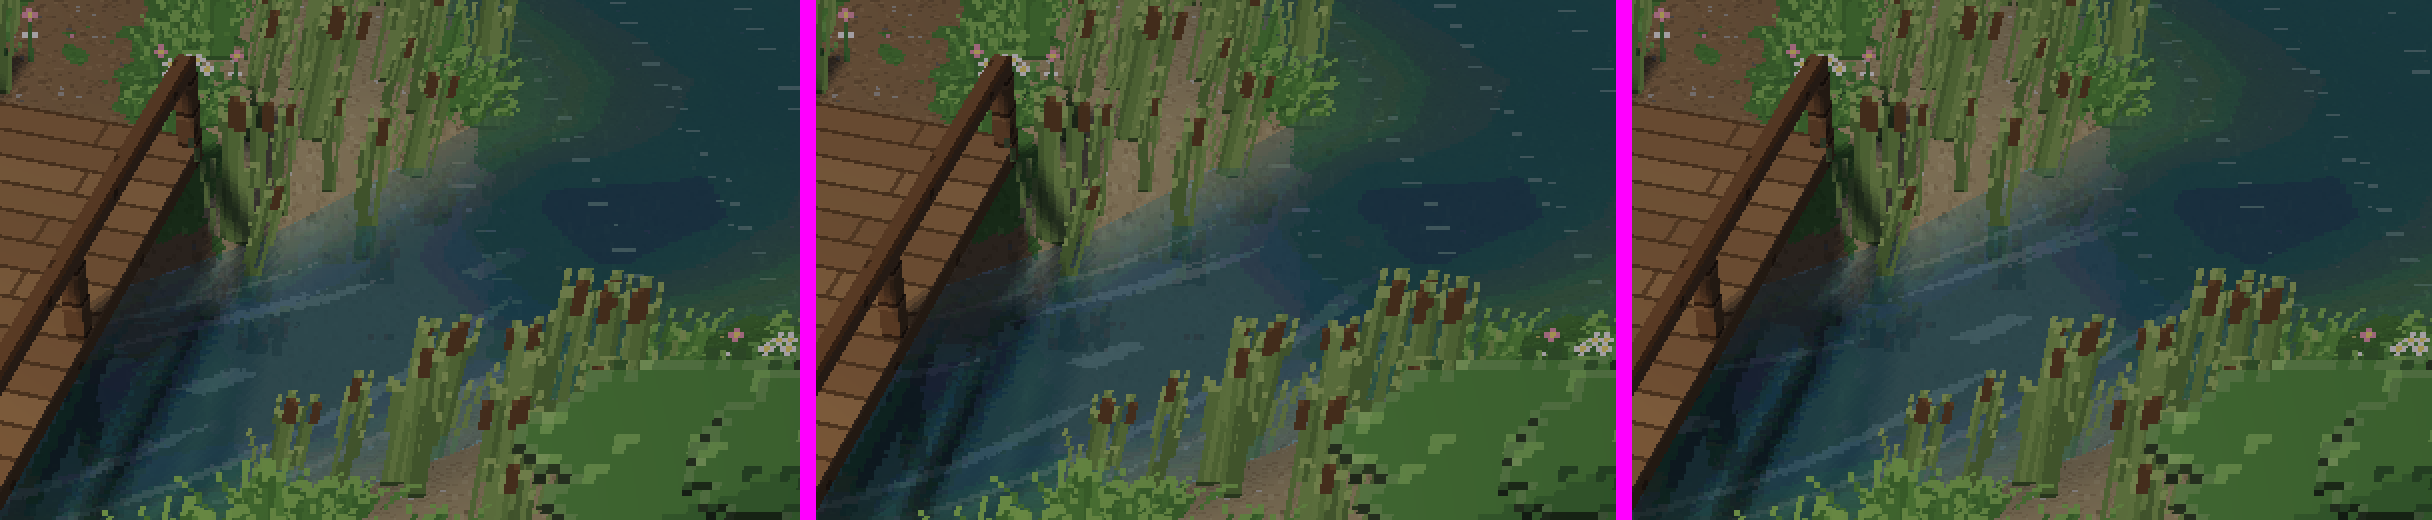
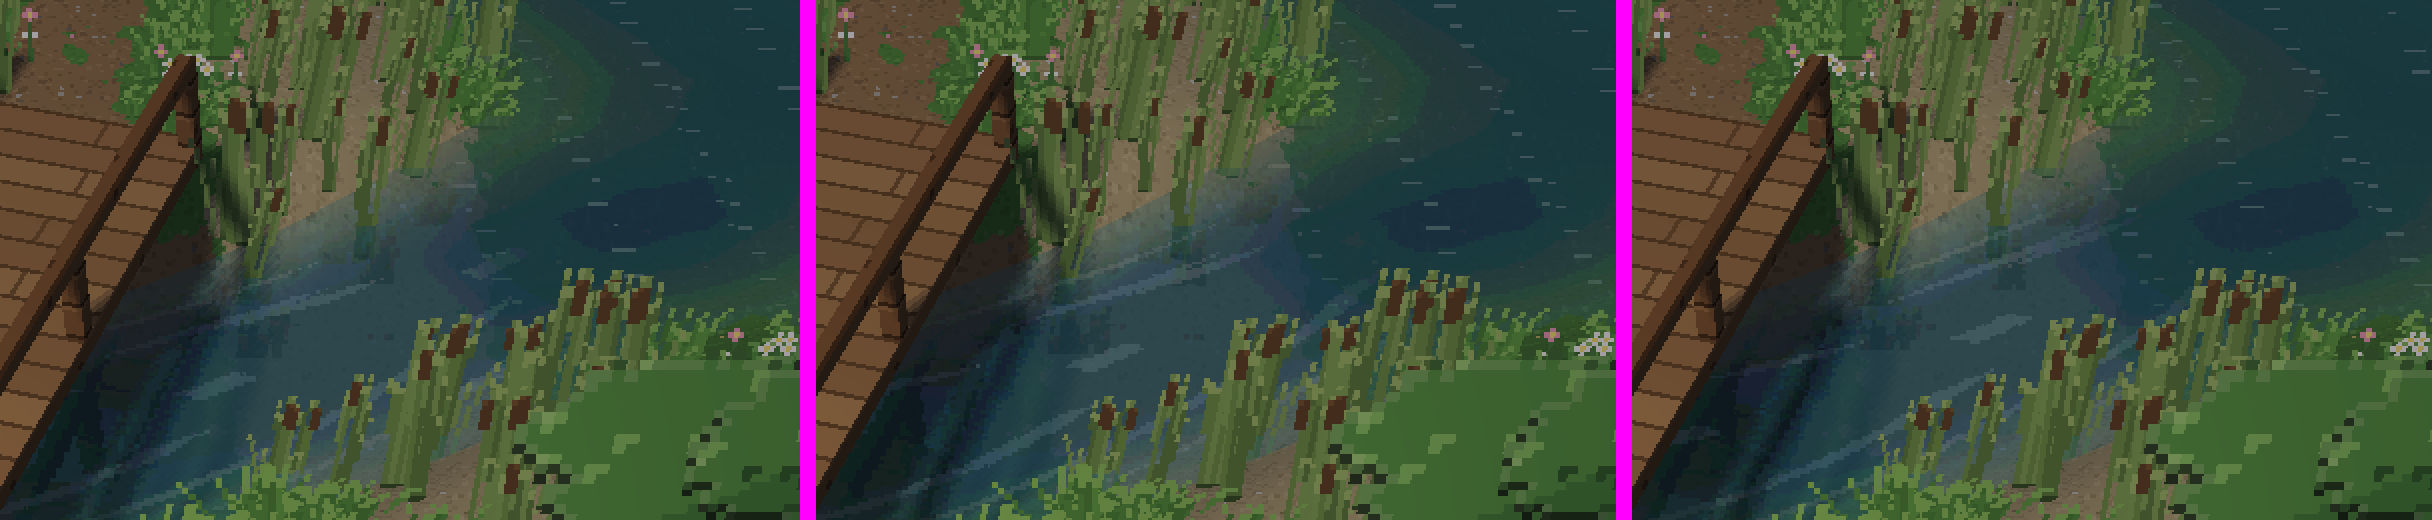
R4A evidence: recaptured after four review rounds (277ea54; frames at c25b650), not for merge

diff --git a/docs/reviews/r4a_river_mouth/tools/mutate.py b/docs/reviews/r4a_river_mouth/tools/mutate.py
@@ -12,6 +12,29 @@ SCR = r"C:\Users\slebb\AppData\Local\Temp\claude\c18a071c64bbe7a7\bff3a484-a7b8-
 ENV.update(APPDATA=SCR + r"\appdata", XDG_DATA_HOME=SCR + r"\xdg", MESH_USER_DIR=SCR + r"\user",
            MESH_PROJECTS_DIR=SCR + r"\projects")
 MUTANTS = [
+    ("a meander's other limb counted as its bank (adddade)", "engine/hd2d/river.py",
+     "                       or any(abs(rib.u[s] - rib.u[k]) > far\n", "                       or any(False\n",
+     "tests/test_river_mouth.py::test_a_meander_s_close_limbs_carve_once_and_a_bed_carved_before_its_mouth_stays_pond_water"),
+    ("the pond's opening fades along the river (51fb208)", "engine/water.py",
+     "            open = max(open, (h - across) * (1.0 - smoothstep(0.0, MOUTH_BLEND, max(-sd, 0.0))));\n",
+     "            open = max(open, (h - across) * (1.0 - smoothstep(0.0, MOUTH_BLEND, max(along, 0.0))));\n",
+     "tests/test_river_mouth_gpu.py::test_no_seam_where_the_shore_crosses_the_stream_at_a_slant"),
+    ("carving digs on into the pond (51fb208)", "engine/hd2d/river.py",
+     "            continue  # (the pond's ground, but for a cell in from its shore: what the shore's cells are read from)\n", "            pass\n",
+     "tests/test_river_mouth.py::test_flowing_into_a_pond_its_bed_eases_out_and_nothing_is_dug_in_the_pond"),
+    ("a mouth's bed doesn't ease out", "engine/hd2d/river.py",
+     "            ease = min(1.0, max(0.0, (mouth.u - s) / BLEND_M))\n",
+     "            ease = 1.0\n",
+     "tests/test_river_mouth.py::test_flowing_into_a_pond_its_bed_eases_out_and_nothing_is_dug_in_the_pond"),
+    ("sinking reads its own bed's corners (51fb208)", "engine/hd2d/river.py",
+     "                    continue  # (in its own water: its bed)\n", "                    pass\n",
+     "tests/test_river_mouth.py::test_carving_a_river_twice_is_carving_once_even_at_the_ground_s_level"),
+    ("classic ponds joined", "engine/hd2d/river.py",
+     "    if pond.water.preset in water_mod.CLASSIC:\n", "    if False:\n",
+     "tests/test_river_mouth.py::test_review_refusals_classic_ponds_banks_in_the_pond_a_drop_by_the_shore_and_flagged_ponds"),
+    ("banks in the pond upstream accepted", "engine/hd2d/river.py",
+     "    if banked is not None:\n", "    if False:\n",
+     "tests/test_river_mouth.py::test_review_refusals_classic_ponds_banks_in_the_pond_a_drop_by_the_shore_and_flagged_ponds"),
     ("river water drawn in the pond", "engine/water.py", "        if (sd < 0.0) discard;\n", "",
      "tests/test_river_mouth_gpu.py::test_studio_draws_one_water_surface_where_the_stream_enters_the_pond"),
     ("pond bank drawn over the stream", "engine/water.py",
@@ -29,7 +52,7 @@ MUTANTS = [
      "        if known and level > min(known) and any(abs(rib.u[k] - m) < 0.13 for m in rib.marks):\n",
      "tests/test_river_mouth.py::test_sinking_finds_a_dip_between_points_and_keeps_a_mouth_at_its_pond"),
     ("sinking measures a neighbour's bed", "engine/hd2d/river.py",
-     "            if g is not None and not beside_water:\n", "            if g is not None:\n",
+     "for f in (0.0, 0.5, 1.0)):\n                    continue\n", "for f in (0.0, 0.5, 1.0)):\n                    pass\n",
      "tests/test_river_mouth.py::test_carving_beside_a_pond_or_another_river_measures_their_shore_not_their_bed"),
     ("a mouth sunk below its pond", "engine/hd2d/river.py",
      "        level = p[3] - d if pond is None else max(min(p[3], pond.level), p[3] - d)\n",

diff --git a/docs/reviews/r4a_river_mouth/README.md b/docs/reviews/r4a_river_mouth/README.md
@@ -3,74 +3,88 @@
 This is evidence only and isn't for merge. All frames are real 1280×720 hidden-window renders, of Mesh Studio's 3D view or of Play.
 
 - **Before:** the R3 code at `f552d6f`.
-- **After:** R4A at the PR head `51fb208`.
+- **After:** R4A, captured at `c25b650`. The final head `277ea54` only removes a refusal (the trench check), so nothing drawn or carved here changes.
 - **Cameras:** each before/after pair uses the same camera.
-- **The Lakeside frames** come from a fresh scratch copy of `D:\Games\Lakeside Village`, which is read only and never changed. In that copy:
+- **The Lakeside frames** come from a fresh scratch copy of `D:\Games\Lakeside Village`. The original is read only and never changed. In that copy:
   - the narrow lake arm ("Puddle 2") is removed;
   - R1's brook course is added, ending inside the main lake at its level (−13.25 px);
-  - the brook's bed is carved and its plants cleared with the ops, as Studio's buttons do.
-- **After only:** `mouth: "auto"` and `ends: "round_source"` are set.
+  - the brook's bed is carved and its plants cleared with the ops, as Studio's buttons do;
+  - after only: `mouth: "auto"` and `ends: "round_source"` are set, then the bed is carved.
 
-The tools that made these frames are in `tools/`. Every output path is checked by `tools/scratch_guard.py`.
+The tools are in `tools/`. Every output path is checked by `tools/scratch_guard.py`.
 
 ## A. Lakeside: the brook entering the lake
 | Picture | What it shows |
 |---|---|
 | `A1_lakeside_mouth_angled_before_after.png` | Studio, 40° camera, cropped 2×. **Before:** the brook's square end lies over the lake as a second, lighter layer. **After:** one surface, with the brook easing into the lake's colour. |
-| `A2_lakeside_mouth_top_down_before_after.png` | Top-down, cropped 2×. Before, the brook's square end and its overlap inside the lake are visible. After, there is none. |
-| `A3_lakeside_play_gameplay_camera_before_after.png` | Play's own follow camera from the bank above the mouth. The lighter overlap patch beside the bridge is gone. |
+| `A2_lakeside_mouth_top_down_before_after.png` | Top-down, cropped 2×. Before, the square end and its overlap inside the lake are visible. After, there is none. |
+| `A3_lakeside_play_gameplay_camera_before_after.png` | Play's own follow camera, from the bank above the mouth. |
 | `A4_lakeside_source_end_before_after.png` | The brook's source, top-down. Before: a square end, with its carved bank showing as a bare dirt patch past it. After: a half-circle end, carved as a bowl, with no trough past it. |
-| `A5_lakeside_mouth_flow_three_frames_half_a_second_apart.png` | Flowing into still water. The renderer drew three frames with the camera held exactly and the water's clock 0.5 s apart. Between frames 1 and 2, **26%** of the brook's pixels upstream change (its current drifts). In the lake only **3.5%** change, which is its slow glints, and about the same changes on the still bridge (4%: the reeds swaying). |
+| `A5_lakeside_mouth_flow_three_frames_half_a_second_apart.png` | Flowing into still water. The renderer drew three frames with the camera held and the water's clock 0.5 s apart. Between frames 1 and 2, **24%** of the brook's pixels upstream change (the current drifts). In the lake **3.4%** change, which is its slow glints; on the still bridge 4.7% change (reeds swaying beside it). |
 | `A6_lakeside_brook_overview_before_after.png` | The whole brook and lake, 48° camera. |
 
 ## B. A pond with a grassy bank (the R4 study village, `tooling/r4_river_mouth_study.py`)
-Lakeside's lake uses the sculpted ground as its shore, so it has no drawn bank. This scene shows a pond whose bank is drawn: an earth lip and reeds.
-- **Left:** the stream with its mouth off. This is what R3 drew.
-- **Right:** with **Into the pond** on.
-- **The difference:** with the mouth off, the pond's earth lip runs across the stream and the square end shows inside the pond. With it on, the lip stops at the stream, there's no end inside the pond, and the stream's middle runs on as a deeper channel.
+The pond's bed is sculpted 0.4 m deep in the middle.
+- **Left:** the stream with its mouth off. Its square end and its water lie over the pond as a second layer, and the pond's earth lip runs across it.
+- **Right:** with **Into the pond** on. One surface:
+  - the lip stops at the stream;
+  - its bed eases to the pond's own depth just inside the shore, so the stream shallows as it meets the pond;
+  - nothing is dug into the pond.
 
-These two frames come from the same code with the mouth off and on. The R3 code can't build this scene, because it has no `ends` setting.
+Both frames use the same code (the R3 code has no `ends` setting to build this scene with).
 
 ## C. The floating shoreline (R3 follow-up 1)
 A stream is drawn 0.25 m above the village's ground, as Studio draws one. Beside it, between two of its points, is a dip about 0.4 m deep. Then **Carve the bed** is run.
 - **Before (R3):** sinking measured the ground only at the control points, which are on flat ground. The water was set to −1.6 px and stood over the dip, with no bank: its edge fades onto the grass.
-- **After:** sinking checks both sides every 0.25 m. The water goes to −14.17 px, under the dip, and lies within visible earth banks.
-- **The cost:** the fix is conservative. The whole stretch is lowered, and every point downstream too, because the level still falls only downstream.
+- **After:** sinking checks both sides every 0.25 m, half a metre out, at the corners of that terrain cell outside its own water. The water goes to −15.6 px, under the dip, and lies within visible earth banks.
+- **The cost:** the fix is conservative. The whole stretch, and every point downstream, is lowered.
 
 ## Measurements (`report.json`)
-- **Carving the Lakeside brook:** 187 ms before, 182–185 ms after.
-- **Lakeside play frame (median of 60):** 21.1 ms before, 18.6–19.9 ms after. This is the same machine, but not a benchmark.
+- **Carving the Lakeside brook:** 187 ms before, 204 ms after.
+- **Lakeside play frame (median of 60):** 21.1 ms before, 18.7 ms after. This is the same machine, but not a benchmark.
 - **Per frame:** no river buffers are made while drawing. A test checks this.
 
-## Tests (at `51fb208`)
-- **`tests/test_river_mouth.py`:** 10 fast tests.
-  - joining, and how it's stored;
-  - each refusal: no pond, end not wholly in, crossing twice, 0.25 m above or below, flowing out of the pond;
-  - an angled join, and two ponds at their own levels;
-  - `RiverIndex` agreeing with what is drawn: the pond and the caps;
-  - the bowl, and no trough;
-  - a dip between points, and a mouth never sunk below its pond;
-  - a neighbour's bed not measured;
-  - older rivers unchanged, and the mouth limit;
-  - a pond moved away.
-- **`tests/test_river_mouth_gpu.py`:** 3 real-window tests.
+## Independent review (four rounds, fresh agents)
+**Round 1 (`51fb208`)** found 2 blockers.
+- **The pond's channel was walkable:** the carved bed ran on into the pond as a walkable 0.7 m trench.
+- **Carving twice re-sank the river.**
+- **Should-fix:**
+  - seams at classic ponds and at slanted shores;
+  - a bank allowed in the pond before the mouth;
+  - a level drop just before the shore that escaped the check;
+  - flag-gated ponds;
+  - `ponds_of` robustness.
+
+**Round 2 (`de04f50`)** found that round 1's fix for the trench (treating it as deep river water) left a hidden barrier in walkable ponds.
+- Now the pond's own rule holds in the pond.
+- Carving digs nothing into the pond, and the bed eases to the pond's depth at the shore.
+- Sinking reads its own bank, not its bed.
+- Also fixed: the dict form of "Show when", and ties between overlapping ponds.
+
+**Round 3 (`adddade`)** found three things, all fixed in `c25b650`:
+- a meander with close limbs re-sank at every carve;
+- a bed carved before the mouth was turned on stayed in the pond;
+- a pale waterline strip at the shore.
+
+**Round 4 (`c25b650`)** found that the check refusing that late mouth also refused uncarved joins into sculpted bowls, Lakeside's size included.
+- The check was removed in `277ea54`.
+- A bed carved first stays in the pond as deeper pond water, walked by the pond's rule (depth rules for ponds belong to R4B).
+
+## Tests (at `277ea54`)
+- **`tests/test_river_mouth.py`:** 18 fast tests.
+- **`tests/test_river_mouth_gpu.py`:** 4 real-window tests.
   - **Studio coverage:**
-    - one layer in the pond, with the mouth-off control;
-    - the pond's bank not drawn where the stream enters;
+    - one layer in the pond, with a mouth-off control;
+    - the pond's bank not drawn where the stream enters, compared point by point against bare ground;
     - the round source;
-    - drawn = `RiverIndex` water at over 400 grid points around the source and the mouth;
+    - drawn = `RiverIndex` water up to the shore;
     - no river allocation while drawing;
     - the panel buttons, with undo and redo.
-  - **Play:** wading down the stream and on into the pond, with no barrier at the shore.
+  - **A slanted-shore seam test.**
+  - **Play:** wading down the stream and on into the pond.
   - **Export parity.**
-- **Ten mutations, all caught:**
-  - river water drawn in the pond;
-  - the pond's bank drawn over the stream;
-  - the round cap not drawn;
-  - `RiverIndex` keeping water in the pond;
-  - sinking only at the points;
-  - a neighbour's bed measured;
-  - a mouth sunk below its pond;
-  - no bowl;
-  - a level mismatch not refused;
-  - two crossings not refused.
+- **17 mutations, all caught** (`tools/mutate.py`).
+- **Local:**
+  - `pytest -m fast`: 5402 passed, 8 skipped;
+  - river, water, world and scatter suites with GPU: 218 passed;
+  - ruff and mypy gates OK.
